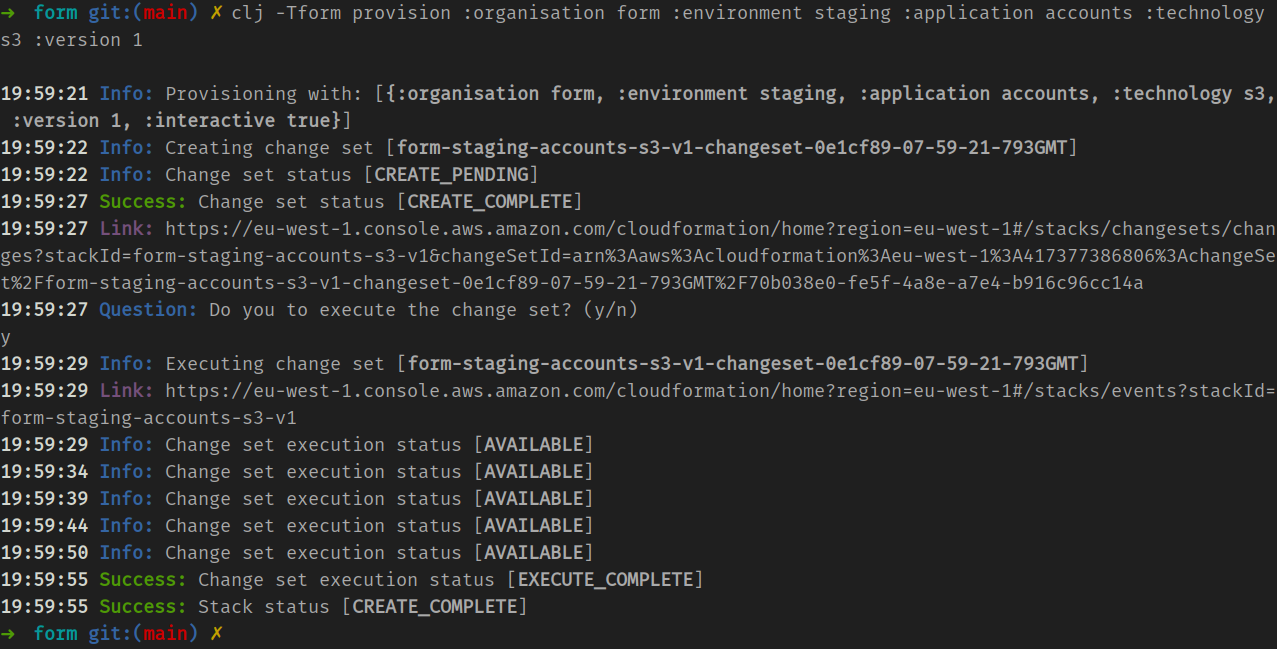
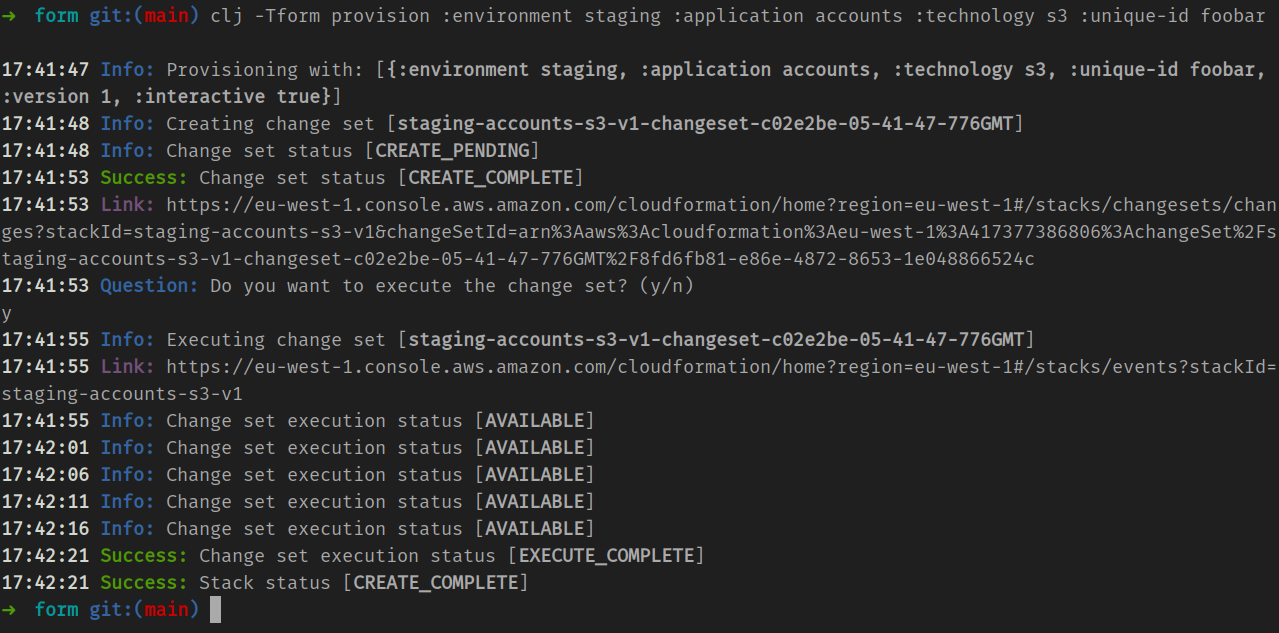
Prepare v0.1.0

Changed region(s): [[0.0, 0.0, 1.0, 0.9905]]

diff --git a/README.md b/README.md
@@ -1,36 +1,10 @@
 # form
 
-A simple but *opinionated* command-line tool for organising and managing project-specific AWS resources within Clojure projects. 
-
-## What are its opinions? 
-Five parameters establish the provisioning context: 
-
-- `:organisation` (a short-n-snappy for your organisation) 
-- `:environment` (e.g. `staging`, `prod`, `uat`, `qa`) 
-- `:application` (your project name) 
-- `:technology` (e.g. `s3`, `rds`, etc) 
-- `:version` (major version number defaulting to version 1) 
-
-Any generated stacks are named accordingly, for example, if you're provisioning an `rds` stack for a service called `accounts` in `staging` and your organisation is called `acme` the resulting stack name will be `acme-staging-accounts-rds-v1`.
-
-CloudFormation template files corresponding to these stacks must reside within a `cloudformation/` folder on the classpath of your project e.g. in `resources/cloudformation/` 
-
-Each template file must be named `template-<technology>.yml` according to what its consistuent resources relate to, for example: 
-
-```
-resources/cloudformation/
-├── template-main.yml
-├── template-rds.yml
-└── template-s3.yml
-```
-
-__Note:__ it's sensible to group resources being managed according to established AWS names such as `rds`, but actually the `<technology>` name can be anything. For instance, in the list of examples templates shown above, `main` is used as the technology name for the ECS resources associated with the main application of the project. 
-
-If you're not interested in partitioning the resources for your project, you *could* have one `<technology>` grouping entitled `all` or `uber` and one corresponding `template-uber.yml`, but managing the lifecycle of all resources in one stack has its downsides, so this usage is not advised. 
+A simple (but opinionated) tool for managing project-specific AWS resources with CloudFormation. 
 
 ## Installation 
 
-If you've cloned `form` locally and want to install and use a modified version, you can: 
+If you've cloned `form` locally and want to install it (or a modified version) from source you can: 
 
 ```
 just install
@@ -39,60 +13,109 @@ just install
 Otherwise, if you want to install a specific release from GitHub, on a CI machine for example: 
 
 ```
-clj -Ttools install com.github.codeasone/form '{:git/tag "2023.11.04"}' :as form
+clj -Ttools install com.github.codeasone/form '{:git/tag "v0.1.0"}' :as form
 ```
 
 Once installed on a system, `form` can be run anywhere using `clj -Tform` 
 
+To uninstall: 
+
+```
+clj -Ttools remove :tool form
+```
+
 ## Prerequisites 
 
-A Clojure installation on the machine or container you want to run `form`. 
+Clojure >= `1.10.3.933` (with support for [tools](https://clojure.org/releases/tools#v1.10.3.933)) on the machine or container on which you want to run `form`. 
 
-And also appropriately configured AWS credentials. 
+In order to work `form` needs access credentials and uses the AWS `BasicCredentialsProvider` to obtain them. 
+
+It will derive credentials from `.aws/{credentials,config}` if those files exist, or via `AWS_ACCESS_KEY_ID` and `AWS_SECRET_ACCESS_KEY` environment variables.
+
+## Mental model 
+
+Four parameters establish context: 
+
+- `:environment` (e.g. `staging`, `prod`, `uat`, `qa`) 
+- `:application` (your project name) 
+- `:technology` (e.g. `s3`, `rds`, etc) 
+- `:version` (major version number) 
+
+Any CloudFormation stacks managed by `form` are named according to these parameters. 
+
+For example, if you're provisioning an `rds` stack for a service called `accounts` in `staging` the resulting stack name will be: 
+
+```
+staging-accounts-rds-v1
+```
+
+CloudFormation template files corresponding to these stacks must reside within a `cloudformation/` folder in the directory in which you're running the `form` tool. 
+
+Each template file must be named `template-<technology>.yml` according to what its constituent resources relate to, for example: 
+
+```
+cloudformation/
+├── template-main.yml
+├── template-rds.yml
+├── template-s3.yml
+└── ...
+```
+
+__Note:__ it's sensible to group resources according to AWS service types such as `rds`, but the `<technology>` name can be anything you like. For instance, in the list of example templates shown above, `main` could be used as label for grouping ECS resources associated with the "main" application of the project. 
+
+If you're not interested in partitioning the resources for your project, you *could* have one `<technology>` grouping such as `all`, and one corresponding `template-all.yml`, but managing the lifecycle of all resources in one stack has its downsides, so this usage is not advised. 
 
 ## Usage 
 
-Here's a fully specified invocation of `form` to provision the `s3` resources in `resources/cloudformation/template-s3.yml` for the `accounts` application on `staging`: 
+Here's a fully-specified invocation of the `provision` command. It provisions the `s3` resources in `cloudformation/template-s3.yml` for the `accounts` application on `staging`: 
 
 ```
-clj -Tform provision :organisation form :environment staging :application accounts :technology s3 :version 1
+clj -Tform provision :environment staging :application accounts :technology s3 :version 1 :unique-id foobar
 ``` 
 
-An example `template-s3.yml` with a single test bucket resource is provided so you can try running this yourself right away. Just be sure to choose a unique enough `:organisation` and `:application` name combo to ensure that the underlying bucket name does not collide with one that already exists. 
+You can try running this yourself right away because an example `template-s3.yml` template managing a single bucket is provided in the `cloudformation/` folder of this repo. 
+
+Just be sure to choose a `:unique-id` that ensures the underlying bucket name does not collide with one that already exists.
+
+__Note:__ `:unique-id` argument corresponds to an additional parameter that is specific to the `s3` stack whose name is `UniqueId` (Pascal-case) within the corresponding `template-s3.yml`.
+
+Here's a preview of what you'll see when you create the `staging-accounts-s3-v1` stack using the `provision` command above: 
 
 <img src="./images/form-provision.png" alt="An example of running form provision" width="800"/>
 
-If `:version` is not provided then the default value of `1` is used and resulting stacks will be suffixed `v1`. 
+If `:version` is not provided then the default value of `1` is used and resulting stacks will be suffixed `v1`. Many projects will never extend beyond `v1`, but if needed it's good to know that the organisational scheme scales to accommodate it. 
 
-By default `form` runs with `:interactive true` and will prompt you to check and confirm the status of any planned changes . 
+By default `form` runs with `:interactive true` and will prompt you to review-and-approve any changes, with handy context-specific AWS console links. 
 
 For CI usage, this mode can be disabled with `:interactive false`. 
 
 ## Safety 
 
-If `:environment` is equal to `production` then any stacks created with `form` have termination protection enabled automatically, making them harder to accidentally delete in the event that you have sufficient IAM privileges to delete stacks to begin with...
+If `:environment` is equal to `prod` or `production` then any stacks created with `form` have termination protection enabled automatically, making them harder to accidentally delete, in the event that you have sufficient IAM privileges to delete stacks to begin with.
 
 ## Limitations 
 
-Currently there is no support for automating the deletion of stacks created with `form`, but this will be added to a subsequent release. 
+Currently there is no `clj -Tform deprovision` support, but this will be added to a subsequent release. 
 
-To delete stacks created with `form` you'll need to use the AWS console or another tool. 
+Until then, to delete stacks you'll need to use the AWS console or another tool. 
 
 ## Why not just use the awscli tool? 
 
-Using `form` is as much about introducing a structured and consistent approach to naming, grouping, and managing AWS resources within an organisation, as being a handy tool. 
+Adopting `form` into your project is as much about introducing a structured and consistent approach to naming and grouping AWS resources, as being a handy tool. 
 
-It will work well in environments consisting of 10s or 100s of services, deployed across multiple environments, where there needs to be a quick answer to the questions like "what resources is project 'foo' using in 'staging'?" 
+It works well in environments consisting of 10s or 100s of services, deployed across multiple environments, where there needs to be a quick and unambiguous answer to the questions like "what resources is the project `accounts` using in `staging`?" 
 
-But it also works well for individual projects too. 
-
-The UX of `form` has been developed and used in numerous incarnations by multiple teams over the past 7 years or so. For both local IaC development and debugging workflows, as well as in the context of numerous CI testing rigs. 
+The terminal-based UX of `form` has evolved through numerous incarnations over the past 7 years or so. Variants of it have been used by multiple teams for IaC development and debugging, to deploy production systems, as well as in the context of numerous CI testing rigs. 
 
 The visual output, handy console links, and timestamped status updates, together with the interactive features, are field tested and have proven to be useful enough to merit the creation of this tool. 
 
 ## Development 
 
-With its current incarnation in Clojure code, the `form` tooling is fully testable and debuggable via standard REPL-based workflows.
+If you're using [asdf](https://github.com/asdf-vm/asdf) then you can `asdf install` as a `.tool-versions` is provided.
+
+If not, make sure you have compatible `java`, `clojure`, and `just` tool versions installed on your system.
+
+With its current incarnation in Clojure code, `form` is easy to understand, test, and debug via standard REPL-based workflows.
 
 To run the integration tests, first bring up `localstack` with `docker-compose up` and when port `4566` is available you can: 
 
@@ -100,15 +123,26 @@ To run the integration tests, first bring up `localstack` with `docker-compose u
 just test
 ```
 
-Or alternatively invocate tests from your editor or REPL, as you prefer.
+Or alternatively invoke tests from within your editor or REPL, as you prefer.
 
-## Next steps 
+## Some ideas and next steps 
 
+### Must  
 - Add a `clj -Tform help` command and output usage information whenever `clj -Tform` is called without any command 
-- Expand on the `README.md`, in particular in relation to AWS credentials setup and the UX advantages
-- Document usage of AWS System Manager Parameter Store as the recommend approach for managing additional stack parameters including references to resources provisioned manually or using `terraform` for instance
-- Add support for passing additional stack parameters as keyword-value pairs to `clj -Tform provision` (maybe) 
+- Add more tests and examples 
+- Add GitHub `test` workflow to regression test future changes 
+
+### Should 
+- Document usage of [AWS System Manager Parameter Store](https://docs.aws.amazon.com/systems-manager/latest/userguide/systems-manager-parameter-store.html) as a means of handling additional stack parameters, including references to resources external to the project under development, which may have been provisioned manually or using `terraform`
+- Automatically use delegated account access credentials based on `:environment` if matching profiles and roles are defined in `.aws/credentials` (falling back to `default` profile)
+- Support `clj -Tform deprovision`  of non-production stacks, to support programmatic tear-down of `nightly` test environments
 - Improve error handling and messaging 
-- Support automated deletion of non-production stacks, to support programmatic teardown of `nightly` test environments
-- Add GitHub `test` workflow to regression test future pushes and pull_requests
-- Add more tests 
+
+### Could 
+- Add functions to answer questions like "what resources is the project `accounts` using in `staging`?" in a concise and helpful way
+- Reflect more CloudFormation best-practices in how `form` works 
+
+### Maybe 
+- Release `form.cloudformation` as a library 
+- Default `:application` to the GitHub project name if not explicitly specified 
+- Add a configuration file enabling default behaviours to be customised 

diff --git a/CHANGELOG.md b/CHANGELOG.md
@@ -1,14 +1,14 @@
 # Change Log
 
-A simple but *opinionated* command-line tool for organising and managing project-specific AWS resources within Clojure projects. 
+A simple (but opinionated) tool for managing project-specific AWS resources with CloudFormation. 
 
 ## [Unreleased]
 
-## [2023.11.04]
+## [0.1.0]
 
 ### Added
 - Initial version
 
 <!-- links -->
-[Unreleased]: https://github.com/codeasone/form/compare/2023.11.04...HEAD
-[2023.11.04]: https://github.com/codeasone/form/compare/8ecea206c3a1a57b2ea4de6d218e696a6d4fa427...2023.11.04
+[Unreleased]: https://github.com/codeasone/form/compare/v0.1.0...HEAD
+[0.1.0]: https://github.com/codeasone/form/compare/8ecea206c3a1a57b2ea4de6d218e696a6d4fa427...v0.1.0
